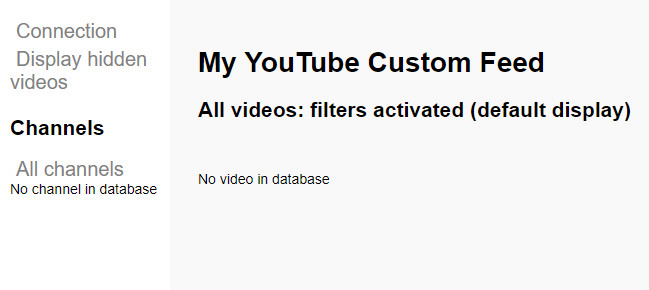
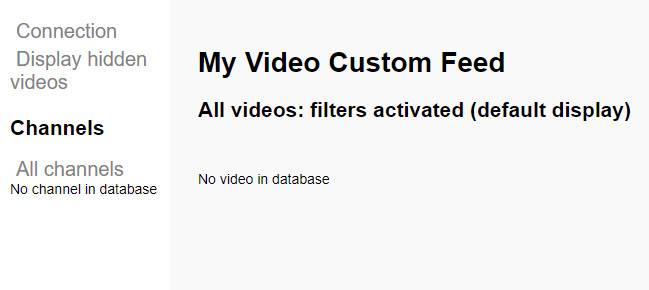
Replace "Youtube Custom Feed" labels for "Video Custom Feed"

Changed region(s): [[0.3698, 0.1552, 0.8629, 0.2483]]

diff --git a/src/bin/client/javascripts/vcf-client-helpers.js b/src/bin/client/javascripts/vcf-client-helpers.js
@@ -12,7 +12,7 @@ function authenticate() {
 }
 
 function loadClient(callback) {
-  gapi.client.setApiKey(ycf.clientApiKey);
+  gapi.client.setApiKey(vcf.clientApiKey);
   return gapi.client.load("https://www.googleapis.com/discovery/v1/apis/youtube/v3/rest")
     .then(
       function () {
@@ -30,10 +30,10 @@ function loadClient(callback) {
 }
 
 function execute() {
-  if (ycf.channels.length == 0) {
-    console.error("No custom channel, check file 'youtube-custom-feed/parameters.js'.");
+  if (vcf.channels.length == 0) {
+    console.error("No custom channel, check file 'src/parameters.js'.");
   } else {
-    ycf.channels.forEach(channel => insertDataFromChannel(channel.id));
+    vcf.channels.forEach(channel => insertDataFromChannel(channel.id));
   }
 }
 
@@ -152,7 +152,7 @@ function displayIframeVideoPlayerThenMask(videoId, displayHiddenVideos) {
   swapVisibility(videoId, displayHiddenVideos);
 }
 
-function openOnYoutube(videoId) {
+function openWebsite(videoId) {
   const win = window.open(`https://www.youtube.com/watch?v=${videoId}`, '_blank');
   win.focus();
 }

diff --git a/tests/client-selenium-test.js b/tests/client-selenium-test.js
@@ -4,9 +4,9 @@ require('selenium-webdriver/firefox');
 require('chromedriver');
 require('geckodriver');
 const helpers = require('./tests-helpers');
-const www = require("../youtube-custom-feed/bin/server/javascripts/main-express");
-const vcfServer = require('../youtube-custom-feed/bin/server/javascripts/vcf-server');
-const config = require('../youtube-custom-feed/bin/config.js');
+const www = require("../src/bin/server/javascripts/main-express");
+const vcfServer = require('../src/bin/server/javascripts/vcf-server');
+const config = require('../src/bin/config.js');
 const passwords = require('./etc/passwords.json');
 const lowdb = require('lowdb');
 const FileSync = require('lowdb/adapters/FileSync');
@@ -221,7 +221,7 @@ describe('Selenium tests', () => {
 
     // Open
 
-    const linkOpenOrigin = await helpers.selectId('button-open-youtube-FK30dDJh7fQ', driver);
+    const linkOpenOrigin = await helpers.selectId('button-open-website-FK30dDJh7fQ', driver);
     await linkOpenOrigin.click();
     await helpers.waitMilli(2000);
 

diff --git a/src/bin/client/javascripts/vcf-client.js b/src/bin/client/javascripts/vcf-client.js
@@ -1,11 +1,11 @@
-var ycf;
+var vcf;
 
 $.post("/getParameters")
   .done(
     function (res) {
-      ycf = res;
-      if (ycf) {
-        if (ycf.clientApiKey == "<XXX>" || ycf.clientId == "<YYY>.apps.googleusercontent.com") {
+      vcf = res;
+      if (vcf) {
+        if (vcf.clientApiKey == "<XXX>" || vcf.clientId == "<YYY>.apps.googleusercontent.com") {
           $("#loading").hide();
           $("#contents").show();
           $("#settings-error").show();
@@ -13,7 +13,7 @@ $.post("/getParameters")
         } else {
           gapi.load("client:auth2",
             function () {
-              gapi.auth2.init({ client_id: ycf.clientId }).then(
+              gapi.auth2.init({ client_id: vcf.clientId }).then(
                 function () {
                   const GoogleAuth = gapi.auth2.getAuthInstance();
                   if (GoogleAuth.isSignedIn.get()) {

diff --git a/tests/server-path-root-test.js b/tests/server-path-root-test.js
@@ -1,5 +1,5 @@
-const server = require('../youtube-custom-feed/bin/server/javascripts/vcf-server');
-const helpers = require('../youtube-custom-feed/bin/server/javascripts/vcf-server-helpers');
+const server = require('../src/bin/server/javascripts/vcf-server');
+const helpers = require('../src/bin/server/javascripts/vcf-server-helpers');
 
 const lowdb = require('lowdb');
 const FileSync = require('lowdb/adapters/FileSync');

diff --git a/tests/server-filter-video-test.js b/tests/server-filter-video-test.js
@@ -1,4 +1,4 @@
-const helpers = require('../youtube-custom-feed/bin/server/javascripts/vcf-server-helpers');
+const helpers = require('../src/bin/server/javascripts/vcf-server-helpers');
 
 const originalConsoleError = console.error;
 afterEach(() => (console.error = originalConsoleError));

diff --git a/tests/tests-helpers.js b/tests/tests-helpers.js
@@ -3,7 +3,7 @@ const fs = require('fs');
 const pngToJpeg = require('png-to-jpeg');
 const Jimp = require('jimp');
 const gm = require('gm');
-const config = require('../youtube-custom-feed/bin/config.js');
+const config = require('../src/bin/config.js');
 
 const waitUntilTime = 20000;
 

diff --git a/tests/server-path-add-video-in-database-test.js b/tests/server-path-add-video-in-database-test.js
@@ -1,4 +1,4 @@
-const server = require('../youtube-custom-feed/bin/server/javascripts/vcf-server');
+const server = require('../src/bin/server/javascripts/vcf-server');
 const helpers = require('./tests-helpers');
 
 const lowdb = require('lowdb');

diff --git a/tests/server-path-swap-visibility-test.js b/tests/server-path-swap-visibility-test.js
@@ -1,4 +1,4 @@
-const server = require('../youtube-custom-feed/bin/server/javascripts/vcf-server');
+const server = require('../src/bin/server/javascripts/vcf-server');
 const helpers = require('./tests-helpers');
 
 const lowdb = require('lowdb');

diff --git a/tests/server-youtube-duration-test.js b/tests/server-youtube-duration-test.js
@@ -1,4 +1,4 @@
-const helpers = require('../youtube-custom-feed/bin/server/javascripts/vcf-server-helpers');
+const helpers = require('../src/bin/server/javascripts/vcf-server-helpers');
 
 describe('Youtube duration into seconds tests', () => {
 

diff --git a/tests/server-error-handler-test.js b/tests/server-error-handler-test.js
@@ -1,4 +1,4 @@
-const server = require('../youtube-custom-feed/bin/server/javascripts/vcf-server');
+const server = require('../src/bin/server/javascripts/vcf-server');
 
 const mockResponse = () => {
     const response = { "locals": {} };

diff --git a/tests/server-set-filter-status-test.js b/tests/server-set-filter-status-test.js
@@ -1,4 +1,4 @@
-const helpers = require('../youtube-custom-feed/bin/server/javascripts/vcf-server-helpers');
+const helpers = require('../src/bin/server/javascripts/vcf-server-helpers');
 
 describe('Set filter status tests', () => {
 
